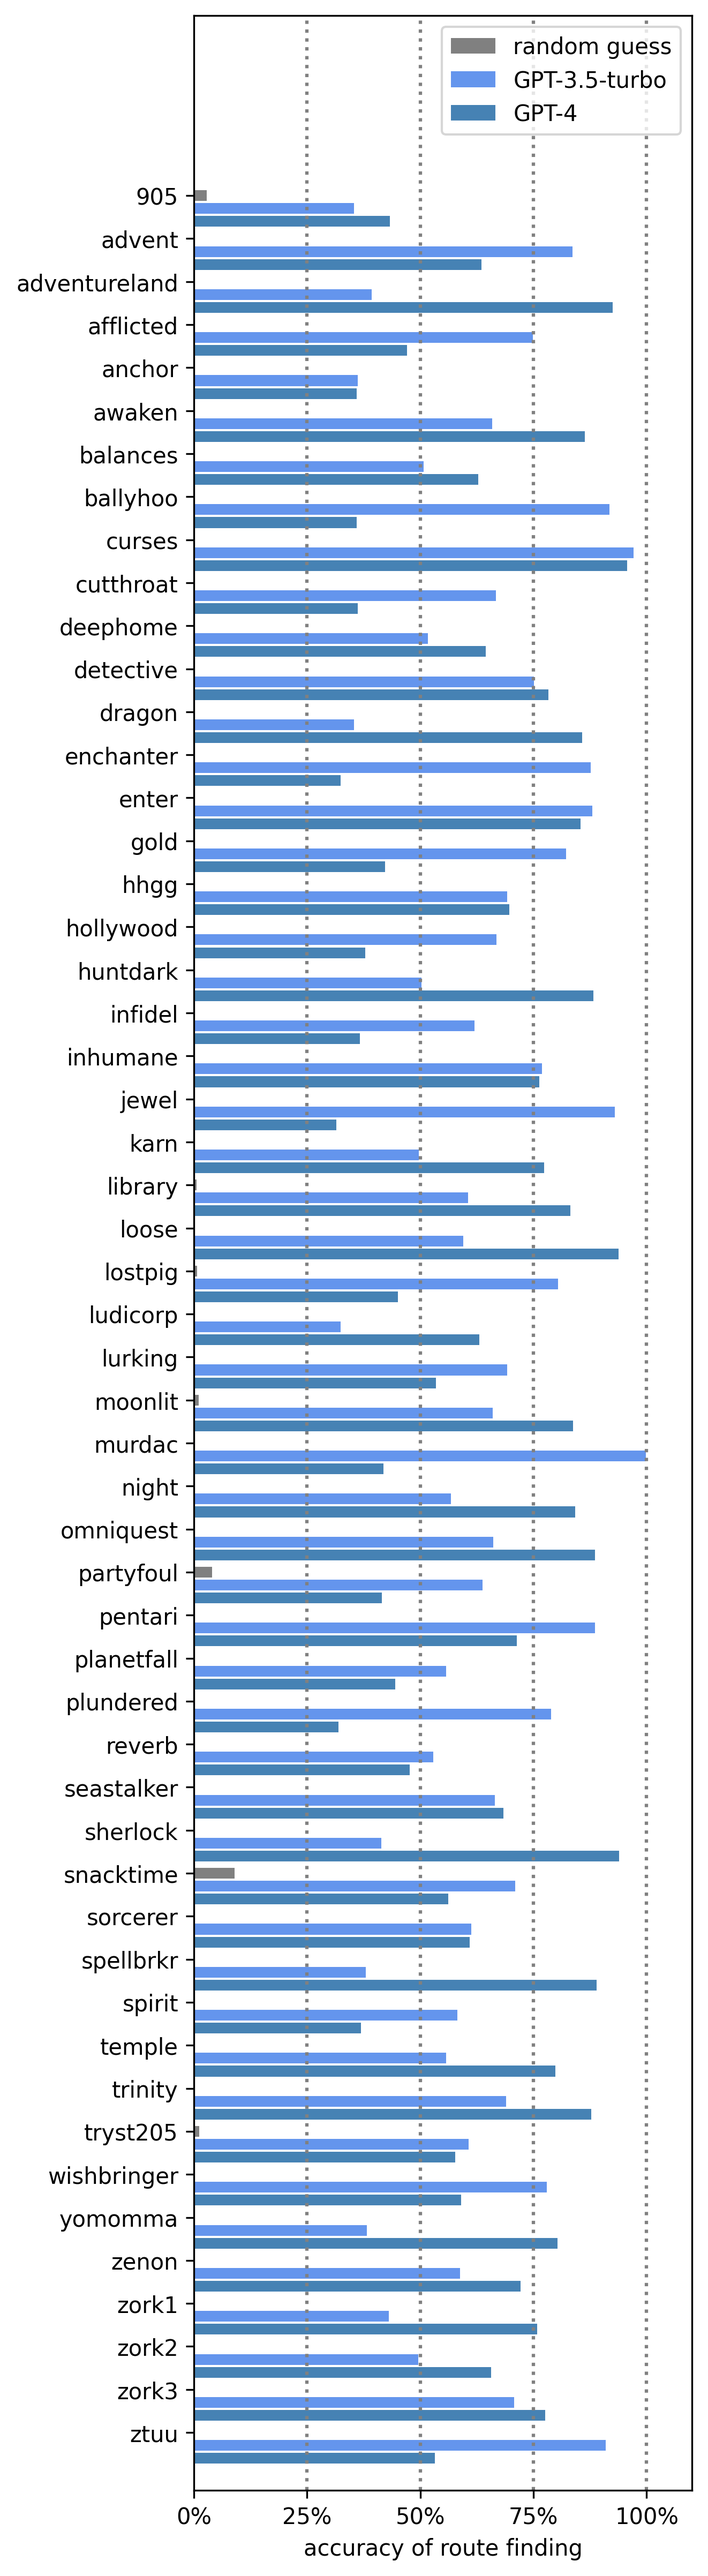
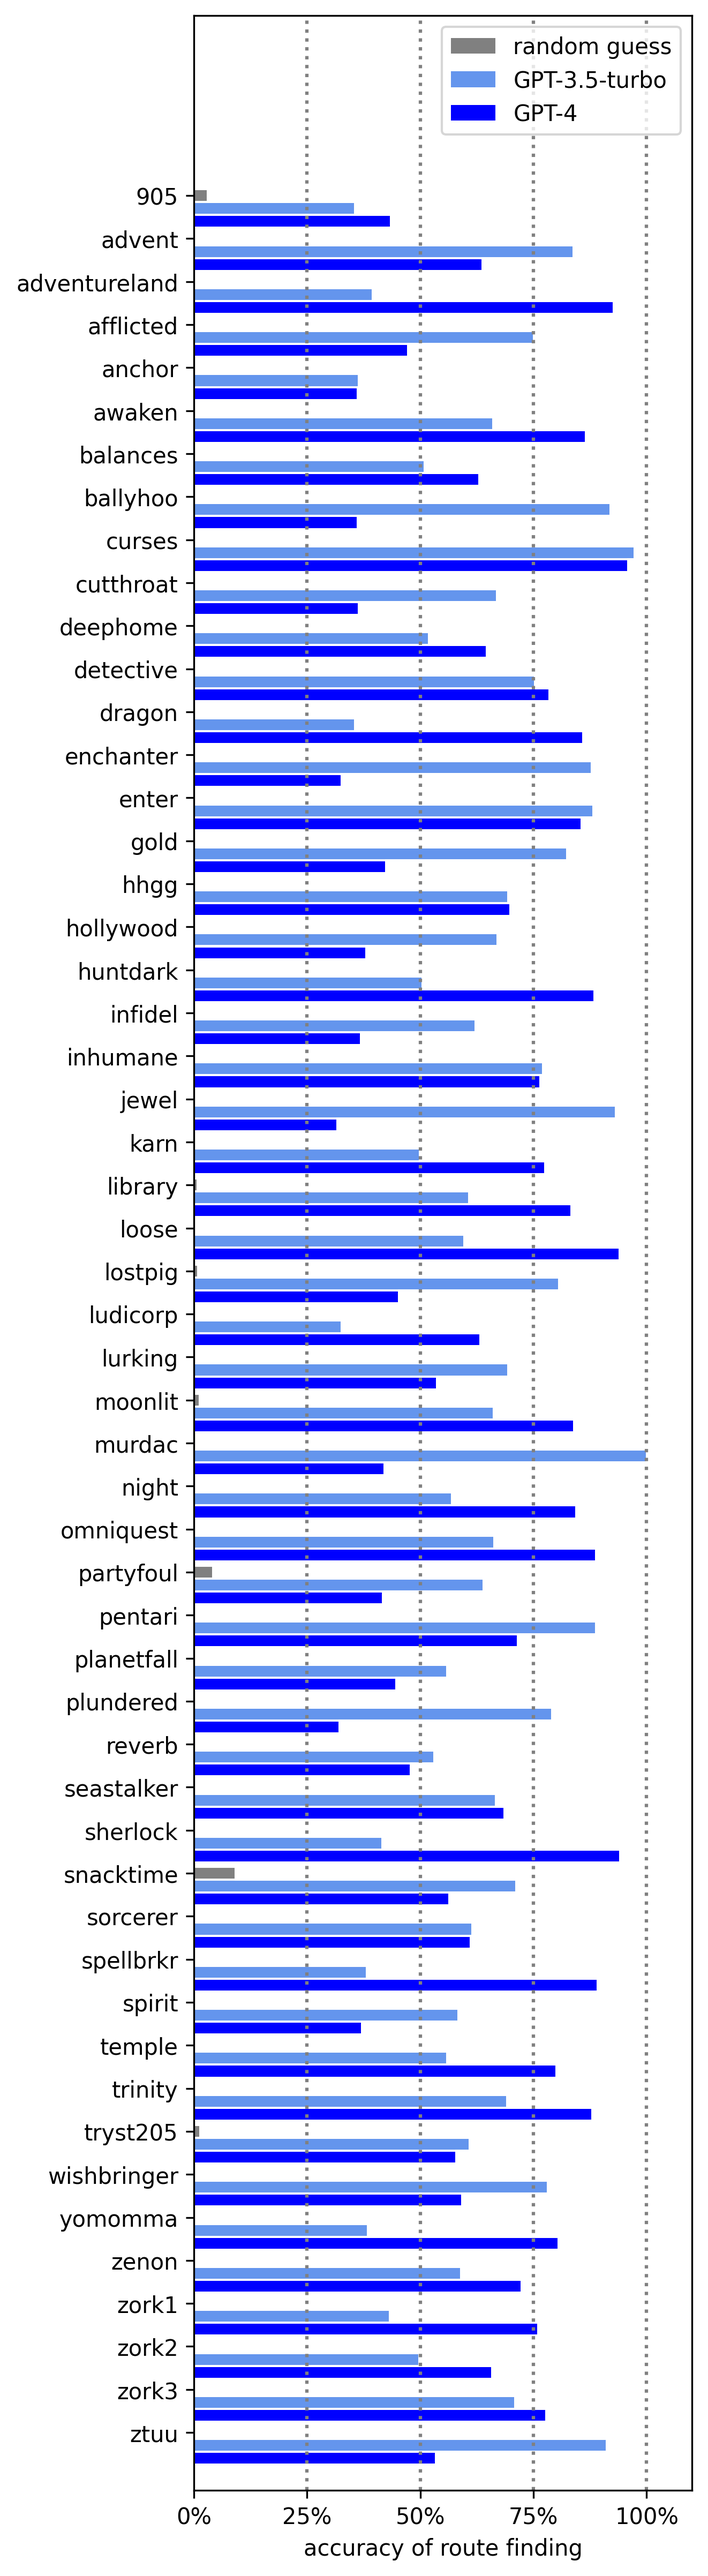
tune color

Changed region(s): [[0.2791, 0.0624, 0.8684, 0.9669], [0.6513, 0.0312, 0.7133, 0.0624]]

diff --git a/src/gen_plots/colors.py b/src/gen_plots/colors.py
@@ -1,5 +1,6 @@
 COLOR_MAP = {
-    "gpt4": "#4682B4",  # steel blue (dark blue)
+    # "gpt4": "#4682B4",  # steel blue (dark blue)
+    "gpt4": "#0000FF",  # blue (blue)
     "gpt3.5": "#6495ED",  # cornflower blue (light blue)
     "rwkv": "#50C878",  # emerald green (light green)
     "llama": "#FFD700",  # gold (yellow)
